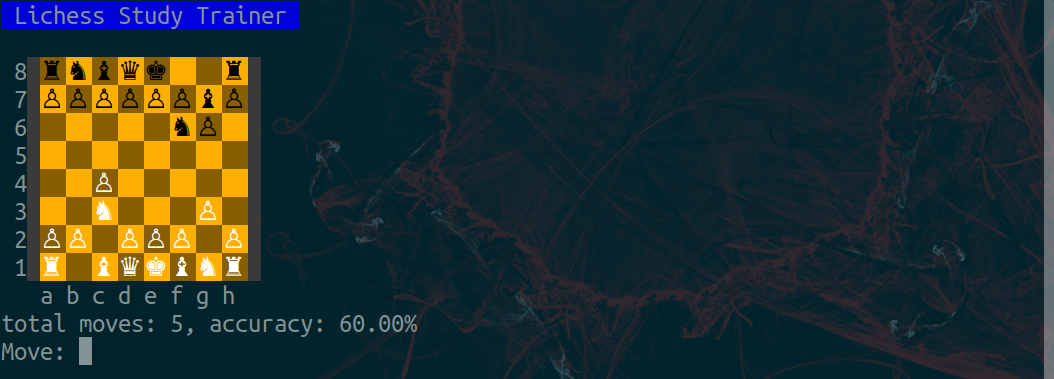
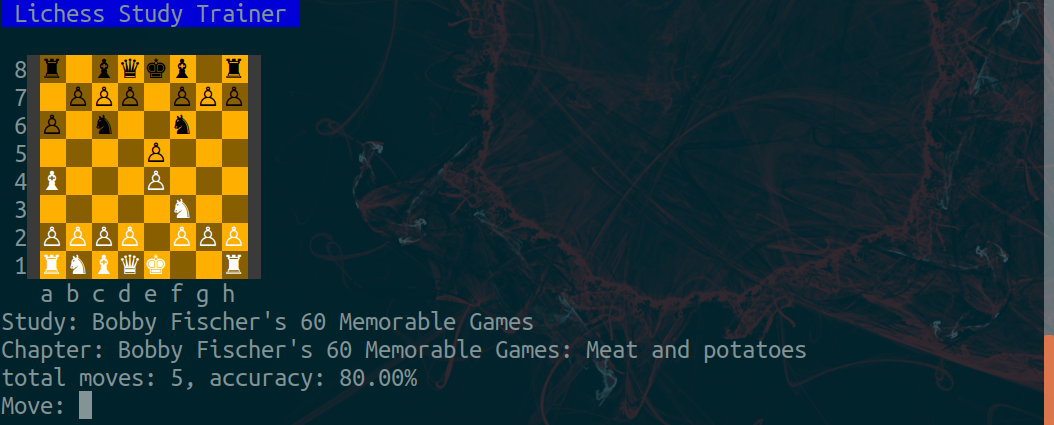
more info

diff --git a/trainer.py b/trainer.py
@@ -21,6 +21,7 @@ class Trainer:
         studies             : list of Study objects, candidates for training
         study_ind           : dictionary, mappings between study name and index in studies
         crnt_study          : Study object, the study that is being worked on
+        crnt_chapter		: Chapter object, the chapter that is being worked on
         chapters_set        : set, a set containing all the chapters in crnt_study that hasn't been worked on
         side                : int, the side to train on. 0 = white, 1 = black
         study_game          : chess.pgn.Game, the game that is currently being worked on 
@@ -207,6 +208,7 @@ class Trainer:
             
                 # next_chapter = self.chapters_set.pop()
                 next_chapter = random.choice(list(self.chapters_set))
+                self.crnt_chapter = next_chapter
                 self.chapters_set.remove(next_chapter)
                 self.study_game = chess.pgn.read_game(io.StringIO(next_chapter.get_pgn()))
             
@@ -337,6 +339,8 @@ class Trainer:
                 self.print_board(board)
             else:
                 self.print_board(board.transform(chess.flip_vertical).transform(chess.flip_horizontal))
+            print(f"Study: {self.crnt_study.get_name()}")
+            print(f"Chapter: {self.crnt_chapter.get_name()}")
             print(f"total moves: {self.total_moves}, accuracy: {self.move_accuracy * 100:.2f}%")
             ans = input("Move: ")
             if re.match(r'^[a-h][1-8][a-h][1-8]$', ans):
@@ -347,7 +351,9 @@ class Trainer:
                 except ValueError as e:
                     result = None
             while not result:
-                self.clear_lines(2)
+                self.clear_lines(4) # Clear lines, number depends on the info printed below
+                print(f"Study: {self.crnt_study.get_name()}")
+                print(f"Chapter: {self.crnt_chapter.get_name()}")
                 print(f"total moves: {self.total_moves}, accuracy: {self.move_accuracy * 100:.2f}%")
                 ans = input("Move: ")
                 if re.match(r'^[a-h][1-8][a-h][1-8]$', ans):
